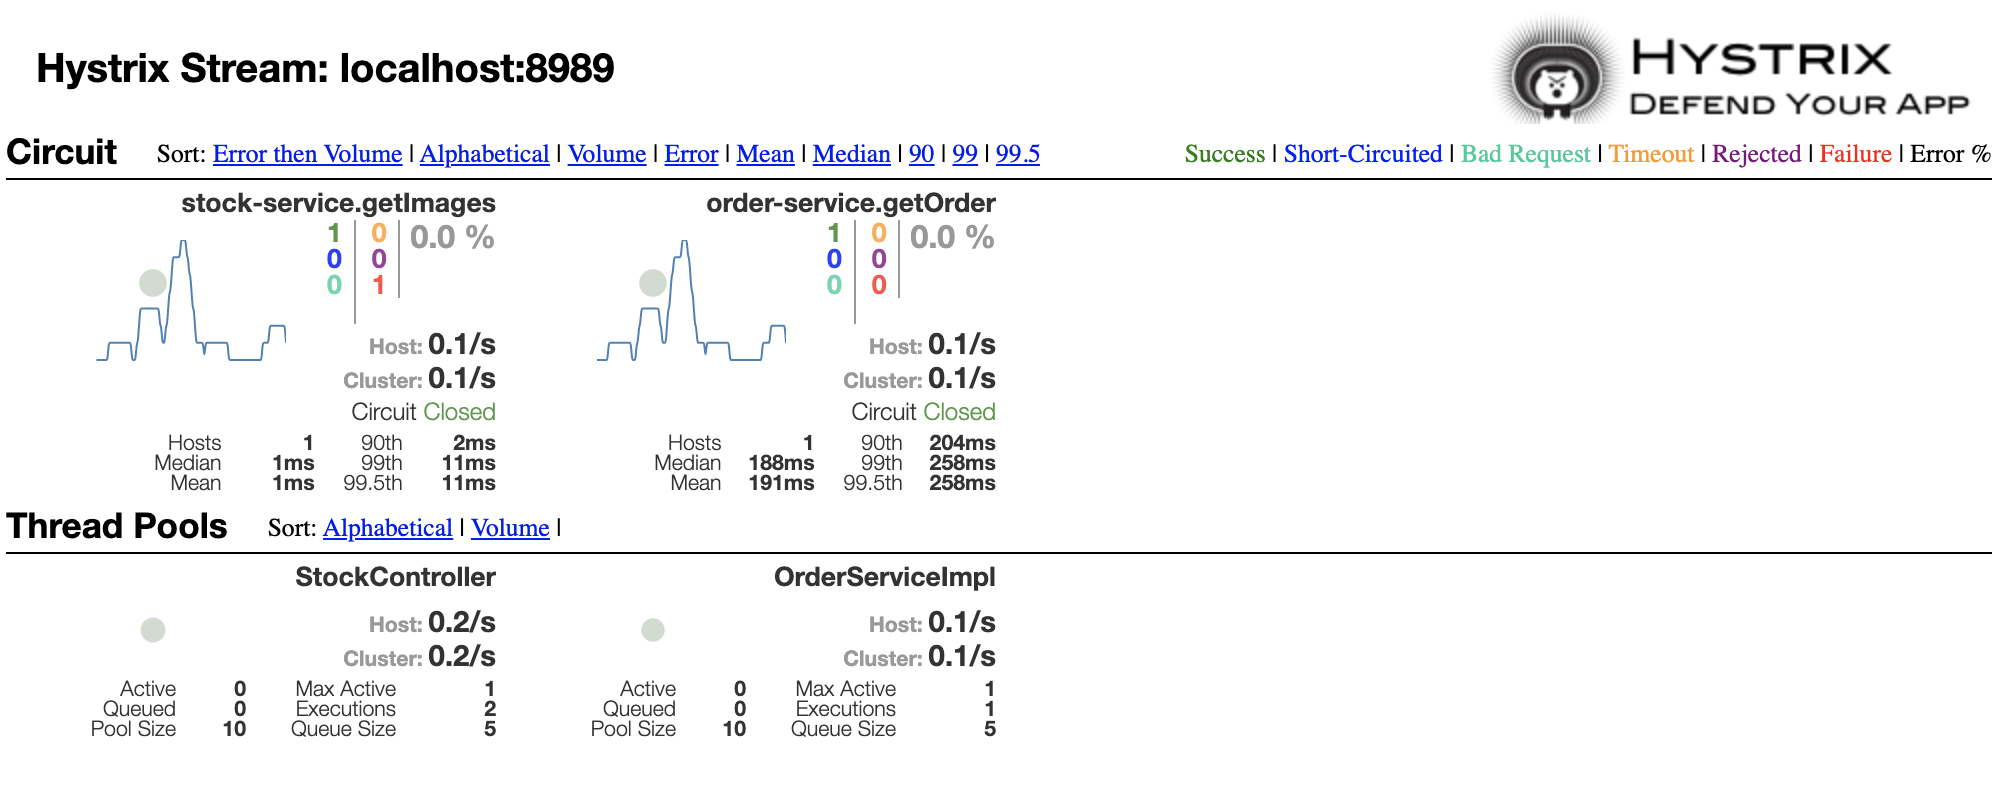
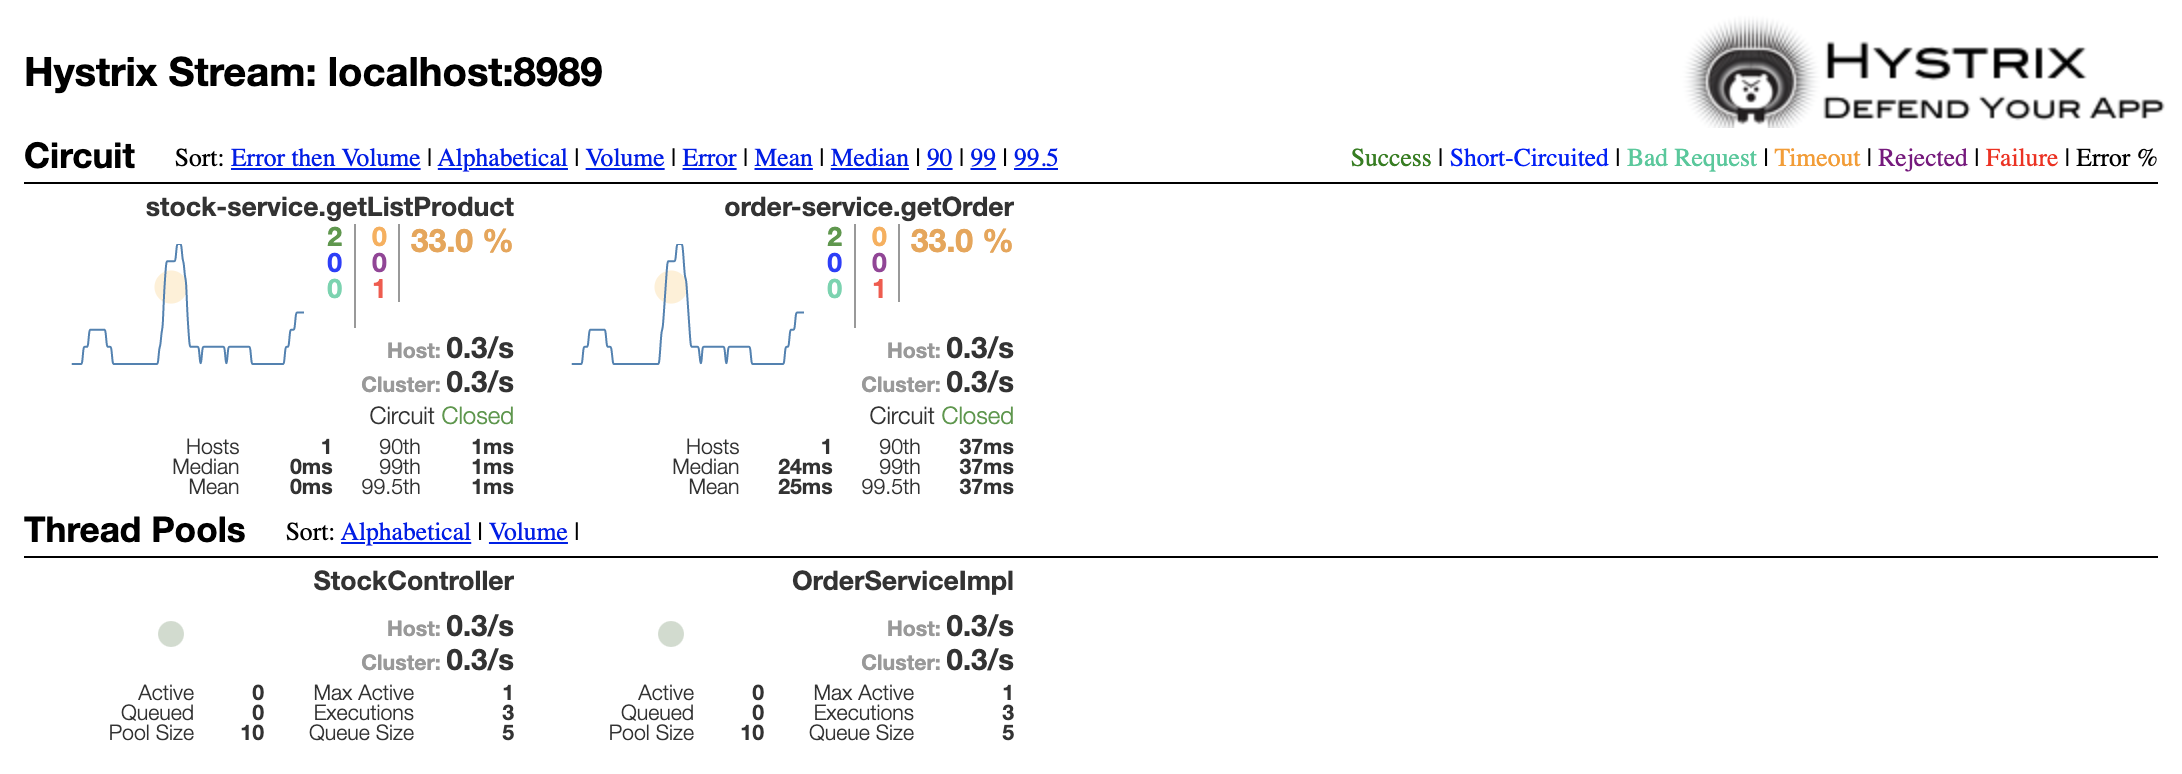
Update readme

diff --git a/stock-service/src/main/java/com/nguyenvm/stockservice/controller/StockController.java b/stock-service/src/main/java/com/nguyenvm/stockservice/controller/StockController.java
@@ -19,7 +19,7 @@ public class StockController {
 
     @HystrixCommand
     @GetMapping("/getAll")
-    public List<ProductDTO> getImages(@RequestParam(name = "isFallBack", defaultValue = "false") boolean isFallBack) throws Exception {
+    public List<ProductDTO> getListProduct(@RequestParam(name = "isFallBack", defaultValue = "false") boolean isFallBack) throws Exception {
         return stockService.getListProduct(isFallBack);
     }
 }
